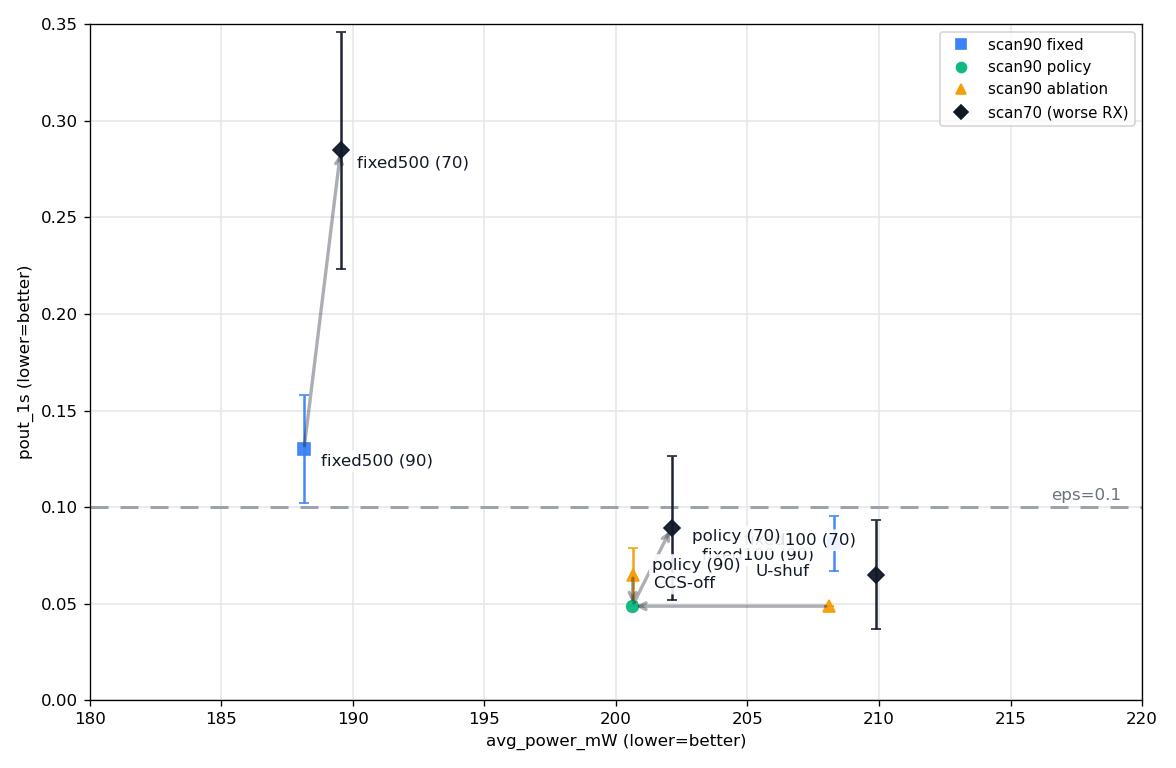
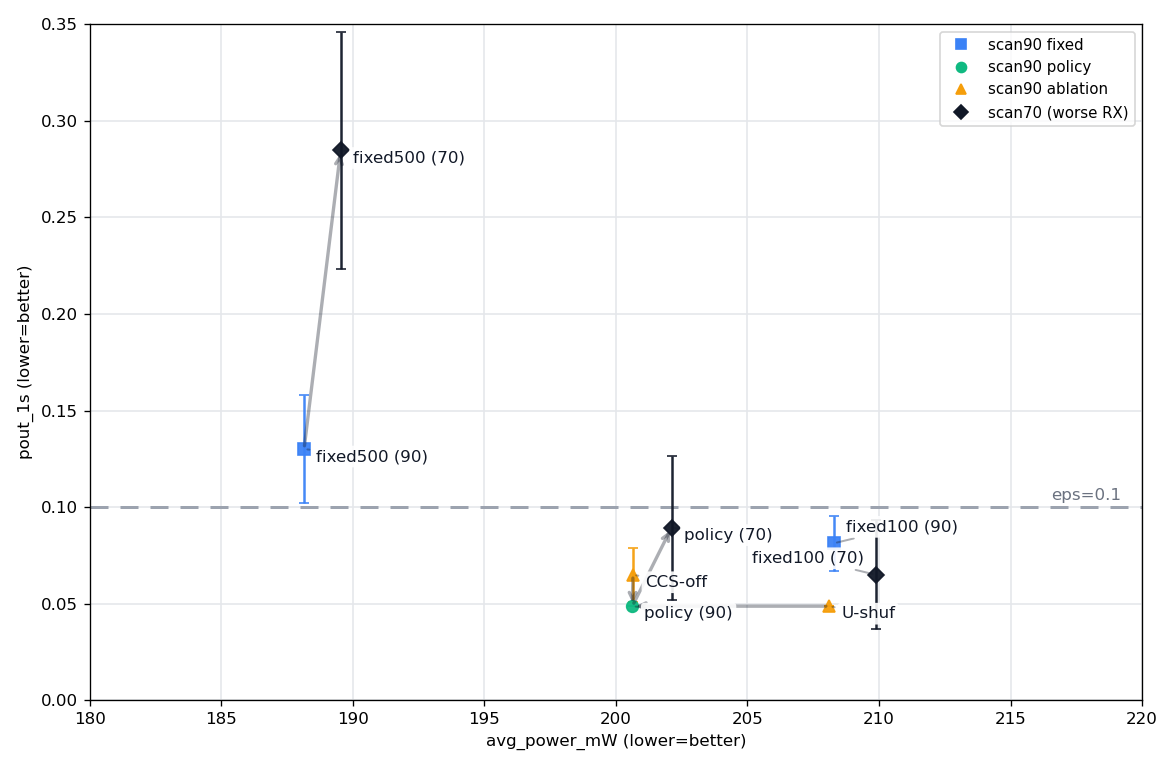
Add label placement functionality and improve SVG generation in role separation analysis script. Introduced new dataclass for label placements, implemented collision avoidance for label positioning, and updated the SVG output to reflect these changes. Added a new binary image file for enhanced visua

diff --git a/uccs_d4b_scan90/analysis/plot_role_separation_overview.py b/uccs_d4b_scan90/analysis/plot_role_separation_overview.py
@@ -33,6 +33,15 @@ class Point:
     shape: str  # "circle" | "square" | "triangle" | "diamond"
 
 
+@dataclass(frozen=True)
+class LabelPlacement:
+    dx: float
+    dy: float
+    anchor: str  # "start" | "end" | "middle"
+    box: Tuple[float, float, float, float]  # x0, y0, x1, y1 in px
+    leader: bool
+
+
 def f_or_none(v: str) -> Optional[float]:
     v = (v or "").strip()
     if not v:
@@ -97,6 +106,123 @@ def _draw_marker(shape: str, cx: float, cy: float, color: str) -> str:
     if shape == "diamond":
         return f'<polygon points="{cx:.2f},{cy-7:.2f} {cx-7:.2f},{cy:.2f} {cx:.2f},{cy+7:.2f} {cx+7:.2f},{cy:.2f}" fill="{color}" opacity="0.95"/>'
     return f'<circle cx="{cx:.2f}" cy="{cy:.2f}" r="6" fill="{color}" opacity="0.95"/>'
+
+
+def _estimate_text_box(text: str, font_size: float = 12.0, pad: float = 2.0) -> Tuple[float, float]:
+    # Rough width estimate for short ASCII labels.
+    width = max(1.0, 0.6 * font_size * len(text)) + pad * 2
+    height = font_size + pad * 2
+    return width, height
+
+
+def _rect_overlap(a: Tuple[float, float, float, float], b: Tuple[float, float, float, float]) -> float:
+    ax0, ay0, ax1, ay1 = a
+    bx0, by0, bx1, by1 = b
+    x0 = max(ax0, bx0)
+    y0 = max(ay0, by0)
+    x1 = min(ax1, bx1)
+    y1 = min(ay1, by1)
+    if x1 <= x0 or y1 <= y0:
+        return 0.0
+    return (x1 - x0) * (y1 - y0)
+
+
+def _closest_point_on_rect(px: float, py: float, rect: Tuple[float, float, float, float]) -> Tuple[float, float]:
+    x0, y0, x1, y1 = rect
+    cx = min(max(px, x0), x1)
+    cy = min(max(py, y0), y1)
+    return cx, cy
+
+
+def _auto_place_labels(
+    points: List[Point],
+    label_keys: List[str],
+    xpx,
+    ypx,
+    bounds: Tuple[float, float, float, float],
+    font_size: float = 12.0,
+) -> Dict[str, LabelPlacement]:
+    # Greedy collision avoidance in pixel space.
+    ml, mt, mr, mb = bounds
+    placements: Dict[str, LabelPlacement] = {}
+    obstacles: List[Tuple[float, float, float, float]] = []
+
+    # Avoid placing labels on top of point markers.
+    for p in points:
+        px, py = xpx(p.x), ypx(p.y)
+        obstacles.append((px - 8, py - 8, px + 8, py + 8))
+
+    label_points = [p for p in points if p.key in label_keys]
+    label_points.sort(key=lambda p: (ypx(p.y), xpx(p.x)))
+
+    offsets = [
+        (12, -12, "start"),
+        (12, 12, "start"),
+        (12, -28, "start"),
+        (12, 28, "start"),
+        (-12, -12, "end"),
+        (-12, 12, "end"),
+        (-12, -28, "end"),
+        (-12, 28, "end"),
+        (0, -18, "middle"),
+        (0, 22, "middle"),
+        (24, 0, "start"),
+        (-24, 0, "end"),
+        (36, -8, "start"),
+        (-36, -8, "end"),
+    ]
+
+    def make_box(px: float, py: float, dx: float, dy: float, anchor: str, text: str) -> Tuple[float, float, float, float]:
+        w, h = _estimate_text_box(text, font_size=font_size)
+        tx = px + dx
+        ty = py + dy
+        if anchor == "start":
+            x0, x1 = tx, tx + w
+        elif anchor == "end":
+            x0, x1 = tx - w, tx
+        else:
+            x0, x1 = tx - w / 2, tx + w / 2
+        y0, y1 = ty - h, ty
+        return x0, y0, x1, y1
+
+    for p in label_points:
+        px, py = xpx(p.x), ypx(p.y)
+        best = None
+        best_score = float("inf")
+        for dx, dy, anchor in offsets:
+            box = make_box(px, py, dx, dy, anchor, p.label)
+            x0, y0, x1, y1 = box
+            # Out-of-bounds area penalty
+            out_x0 = max(0.0, ml - x0)
+            out_y0 = max(0.0, mt - y0)
+            out_x1 = max(0.0, x1 - mr)
+            out_y1 = max(0.0, y1 - mb)
+            out_area = (out_x0 + out_x1) * (y1 - y0) + (out_y0 + out_y1) * (x1 - x0)
+
+            overlap = 0.0
+            for ob in obstacles:
+                overlap += _rect_overlap(box, ob)
+
+            dist = abs(dx) + abs(dy)
+            score = overlap * 10.0 + out_area * 50.0 + dist * 0.2
+            if score < best_score:
+                best_score = score
+                best = (dx, dy, anchor, box)
+            if overlap == 0.0 and out_area == 0.0:
+                best = (dx, dy, anchor, box)
+                break
+
+        if best is None:
+            continue
+        dx, dy, anchor, box = best
+        obstacles.append(box)
+        # Leader if moved far from point
+        bx0, by0, bx1, by1 = box
+        cx, cy = (bx0 + bx1) / 2, (by0 + by1) / 2
+        leader = math.hypot(cx - px, cy - py) > 18.0
+        placements[p.key] = LabelPlacement(dx=dx, dy=dy, anchor=anchor, box=box, leader=leader)
+
+    return placements
 
 
 def write_svg(out_svg: Path, title: str, points: List[Point], arrows: List[Tuple[str, str, str]]) -> None:
@@ -183,17 +309,17 @@ def write_svg(out_svg: Path, title: str, points: List[Point], arrows: List[Tuple
             mx, my = (x1 + x2) / 2, (y1 + y2) / 2
             svg.append(f'<text x="{mx+6:.2f}" y="{my-6:.2f}" font-size="12" fill="{axis}" font-family="ui-sans-serif, system-ui, -apple-system">{_svg_escape(text)}</text>')
 
-    label_cfg = {
-        # dx, dy, anchor
-        "scan70_fixed500": (10, -10, "start"),
-        "scan90_fixed500": (10, -10, "start"),
-        "scan70_policy": (12, -8, "start"),
-        "scan90_policy": (12, 22, "start"),
-        "scan90_ccs_off": (12, -8, "start"),
-        "scan90_fixed100": (-12, -10, "end"),
-        "scan70_fixed100": (-12, 18, "end"),
-        "scan90_u_shuf": (-12, 18, "end"),
-    }
+    label_keys = [
+        "scan70_fixed500",
+        "scan90_fixed500",
+        "scan70_policy",
+        "scan90_policy",
+        "scan90_ccs_off",
+        "scan90_fixed100",
+        "scan70_fixed100",
+        "scan90_u_shuf",
+    ]
+    placements = _auto_place_labels(points, label_keys, xpx, ypx, (ml, mt, ml + pw, mt + ph), font_size=12.0)
     label_style = 'style="paint-order: stroke; stroke: #ffffff; stroke-width: 4px; stroke-linejoin: round;"'
 
     # Points + error bars
@@ -202,10 +328,17 @@ def write_svg(out_svg: Path, title: str, points: List[Point], arrows: List[Tuple
         # error bars (vertical only; omit horizontal to keep the overview uncluttered)
         svg.append(f'<line x1="{px:.2f}" y1="{ypx(p.y-p.yerr):.2f}" x2="{px:.2f}" y2="{ypx(p.y+p.yerr):.2f}" stroke="{p.color}" stroke-width="2" opacity="0.9"/>')
         svg.append(_draw_marker(p.shape, px, py, p.color))
-        if p.key in label_cfg:
-            dx, dy, anchor = label_cfg[p.key]
+        placement = placements.get(p.key)
+        if placement:
+            tx = px + placement.dx
+            ty = py + placement.dy
+            if placement.leader:
+                cx, cy = _closest_point_on_rect(px, py, placement.box)
+                svg.append(
+                    f'<line x1="{px:.2f}" y1="{py:.2f}" x2="{cx:.2f}" y2="{cy:.2f}" stroke="{axis}" stroke-width="1.4" opacity="0.35"/>'
+                )
             svg.append(
-                f'<text x="{px+dx:.2f}" y="{py+dy:.2f}" font-size="12" text-anchor="{anchor}" fill="{axis}" {label_style} font-family="ui-sans-serif, system-ui, -apple-system">{_svg_escape(p.label)}</text>'
+                f'<text x="{tx:.2f}" y="{ty:.2f}" font-size="12" text-anchor="{placement.anchor}" fill="{axis}" {label_style} font-family="ui-sans-serif, system-ui, -apple-system">{_svg_escape(p.label)}</text>'
             )
 
     # Legend
@@ -317,29 +450,50 @@ def write_matplotlib(out_path: Path, title: str, points: List[Point], arrows: Li
             mx, my = (ps.x + pd.x) / 2, (ps.y + pd.y) / 2
             ax.text(mx + 0.005, my + 0.5, text, fontsize=10, color="#111827")
 
-    label_cfg = {
-        "scan70_fixed500": (10, -10, "left"),
-        "scan90_fixed500": (10, -10, "left"),
-        "scan70_policy": (12, -8, "left"),
-        "scan90_policy": (12, 22, "left"),
-        "scan90_ccs_off": (12, -8, "left"),
-        "scan90_fixed100": (-12, -10, "right"),
-        "scan70_fixed100": (-12, 18, "right"),
-        "scan90_u_shuf": (-12, 18, "right"),
-    }
+    label_keys = [
+        "scan70_fixed500",
+        "scan90_fixed500",
+        "scan70_policy",
+        "scan90_policy",
+        "scan90_ccs_off",
+        "scan90_fixed100",
+        "scan70_fixed100",
+        "scan90_u_shuf",
+    ]
+    # Reuse the SVG placement in pixel space to avoid overlaps.
+    fig_dpi = fig.get_dpi()
+
+    def xpx(x: float) -> float:
+        return ax.transData.transform((x, 0))[0]
+
+    def ypx(y: float) -> float:
+        return ax.transData.transform((0, y))[1]
+
+    placements = _auto_place_labels(points, label_keys, xpx, ypx, ax.bbox.bounds, font_size=10.0)
     for p in points:
-        if p.key not in label_cfg:
+        placement = placements.get(p.key)
+        if not placement:
             continue
-        dx, dy, align = label_cfg[p.key]
+        dx_pt = placement.dx * 72.0 / fig_dpi
+        dy_pt = placement.dy * 72.0 / fig_dpi
+        align = "center"
+        if placement.anchor == "start":
+            align = "left"
+        elif placement.anchor == "end":
+            align = "right"
+        arrowprops = None
+        if placement.leader:
+            arrowprops = dict(arrowstyle="-", color="#111827", lw=1.2, alpha=0.35)
         ax.annotate(
             p.label,
             (p.x, p.y),
             textcoords="offset points",
-            xytext=(dx, dy),
+            xytext=(dx_pt, dy_pt),
             ha=align,
             fontsize=10,
             color="#111827",
             bbox=dict(boxstyle="round,pad=0.2", fc="white", ec="none", alpha=0.9),
+            arrowprops=arrowprops,
         )
 
     legend = [
